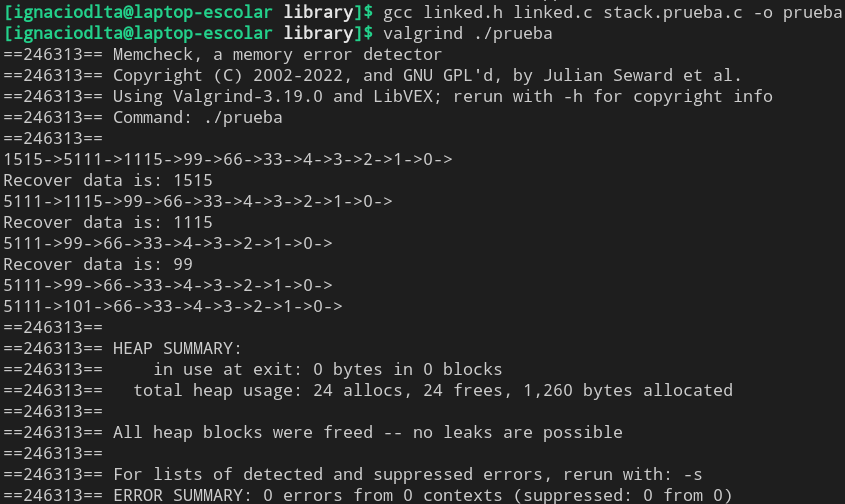
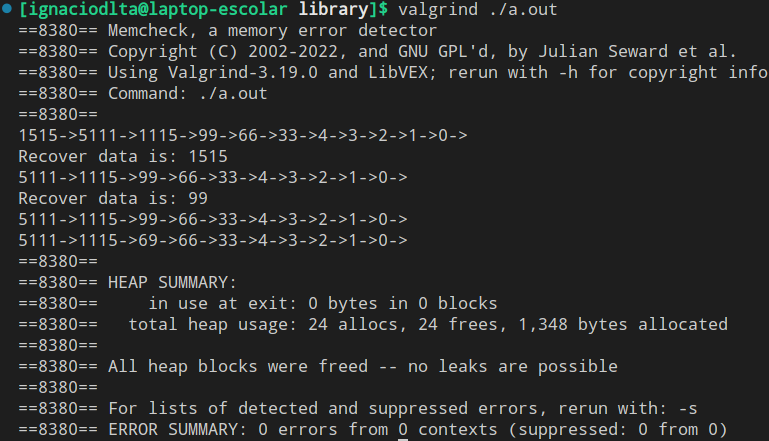
Update

Changed region(s): [[0.0, 0.0, 0.9987, 1.0], [0.9051, 0.0, 0.9987, 0.059]]

diff --git a/linked.c b/linked.c
@@ -1,43 +1,51 @@
 #include "linked.h"
 #include <stdarg.h>
 #include <stddef.h>
-#include <stdlib.h>
+#include <stdint.h>
+#include <stdio.h>
 
 #define iterate(stack)  for(node* aux = stack->lista; aux != NULL; aux = aux->next)
 Stack* newStack(){
-    Stack* stack = malloc(sizeof(Stack));
-    *stack = (Stack){.size = 0, .lista = NULL};
-    return stack;
+    Stack* created = malloc(sizeof(Stack));
+    *created = (Stack){.size = 0, .lista = NULL};
+    return created;
 }
 //Encapsula el valor mandado dentro de un nodo
-static node* wrap(void* const val){
+node* wrap(void* const val, const size_t typeSize){
     node* newNode = malloc(sizeof(node));
     *newNode = (node){
+        .typeSize = typeSize,
         .cont = val,
         .next = NULL
     };
     return newNode;
 }
+void* unwrap(node* const Node){
+    void* aux = Node->cont;
+    free(Node);
+    return aux;
+}
 //Retorna el indice en el cual se encuentra un puntero que apunta a la misma direccion de memoria del valor
-size_t search(Stack* const stack, void* const valor){
-    unsigned int index;
+size_t search(const Stack* const stack, const void* const valor){
+    unsigned int index = 0;
     iterate(stack){
         if (aux->cont == valor) return index;
         index++;
     }
-    return stack->size+1;
+    return stack->size + 1;
 }
 //A diferencia del search simple este hace una revision de bytes en lugar de direccion de memoria
-size_t searchValue(Stack* const stack, void* const valor, const size_t typeLen){
-    char* buscado = valor;
+size_t searchValue(const Stack* const stack, const void* const valor, const size_t typeLen){
+    const char* buscado = valor;
     char* actualValue;
-    unsigned char found = 0;
+    uint8_t found = 0;
     size_t index = 0;
     iterate(stack){
+        if(aux->typeSize < typeLen || aux->typeSize > typeLen)continue; //Chequeo para evitar acceso a memoria que no nos pertenece
         actualValue = aux->cont;
         found = 1;
-        for (unsigned char i = 0; i < typeLen; i++){
-            if(buscado[i] != actualValue[i]){ //Dangerous for a stack with contents of diferent types
+        for (uint8_t i = 0; i < typeLen; i++){
+            if(buscado[i] != actualValue[i]){
                found = 0;
                break; 
             }
@@ -45,91 +53,89 @@ size_t searchValue(Stack* const stack, void* const valor, const size_t typeLen){
         if(found)return index;
         index++;
     }
-    return stack->size+1;
+    return stack->size + 1;
 }
 //Retorna el indice de la lista en el que se cumpla que el valor en el indice pasado a la funcion retorne True
-size_t findByFunc(Stack* const stack, int (*func)(void*)){
+size_t findByFunc(const Stack* const stack, int (*func)(void*)){
     size_t indice = 0;
     iterate(stack){
         if(func(aux->cont))return indice;
         indice++;
     }
-    return stack->size+1;
-}
-//Cambia el contenido de cada nodo al resultado de enviar su contenido a la funcion obtenida
-void map(Stack* const stack, void* (*func)(void*)){
-    iterate(stack)aux->cont = func(aux->cont);
+    return stack->size + 1;
 }
 //Pasa cada valor en el stack a la funcion obtenida
-void forEach(Stack* const stack, void(*func)(void*)){
+void forEach(const Stack* const stack, void (*func)(void*)){
     iterate(stack)func(aux->cont);
 }
-//Encapsula el nuevo elemento en un nodo y lo añade al stack
-void push(Stack* const stack, void* const contenido){
-    node* newNode = wrap(contenido);
-    newNode->next = stack->lista;
-    stack->lista = newNode;
+void pushNode(node** const origin, node* const contenido){
+    contenido->next = (*origin);
+    *origin = contenido;
+}
+void pushStack(Stack* const stack, node* const contenido){
+    pushNode(&(stack->lista), contenido);
     stack->size++;
 }
-//Agrega los argumentosrecividos hasta encontrar un puntero a NULL
+//Agrega los nodos recibidos como argumentos hasta encontrar NULL
 void pushArguments(Stack* const stack, ...){
     va_list ap;
     va_start(ap, stack);
-    for(void* aux = va_arg(ap, void*); aux != NULL; aux = va_arg(ap, void*))push(stack, aux);
+    for(node* aux = va_arg(ap, node*); aux != NULL; aux = va_arg(ap, node*))pushStack(stack, aux);
     va_end(ap);
 }
 //Agrega los valores en el orden en que se encuentra en la lista
 //Hint: El tamaño de una lista se puede sacar con (sizeof(Lista) / sizeof(typeOfLista)) solo si se aplica donde se creo no cuando es pasada a una funcion
-void pushLista(Stack* const stack, void* const valores[], const size_t sizeOfValores){
-    if(sizeOfValores == 0)return;
-    for(size_t i = 0; i < sizeOfValores; i++)push(stack, valores[i]);
+void pushLista(Stack* const stack, node* const valores[], const size_t sizeOfList){
+    if(sizeOfList == 0)return;
+    for(size_t i = 0; i < sizeOfList; i++)pushStack(stack, valores[i]);
+}
+node* popNode(node** const origin){
+    node* aux = *origin;
+    *origin = (*origin)->next;
+    aux->next = NULL;
+    return aux;
+}
+node* popNextNode(node** const origin){
+    node* aux = (*origin)->next;
+    (*origin)->next = (*origin)->next->next;
+    aux->next = NULL;
+    return aux;
 }
 //Extra el ultimo contenido del ultimo nodo añadido al stack
 //Recordatorio: Liberar la memoria del puntero retornado
-void* popP(Stack* const stack){
+node* popStackNode(Stack* const stack){
     if(stack->lista == NULL)return NULL;
-    void* contenido = stack->lista->cont;
-    node* temp = stack->lista->next;
-    free(stack->lista);
-    stack->lista = temp;
-    stack->size--;
-    return contenido;
+    stack->size-=1;
+    return popNode(&(stack->lista));
 }
 //Extrae el contenido del nodo en el index
 //Recordatorio: Liberar la memoria del puntero retornado
-void* popPI(Stack* const stack, const size_t index){
+node* popStackNodeAtIndex(Stack* const stack, const size_t index){
     if(index > stack->size)return NULL;
-    if(index < 1)return popP(stack);
+    if(index < 1)return popStackNode(stack);
     size_t i = 1;
-    void* contenido;
     iterate(stack){
         if(i == index){
-            contenido = aux->next->cont;
-            node* temp = aux->next->next;
-            free(aux->next);
-            aux->next = temp;
-            stack->size--;
-            return contenido;
+            stack->size-=1;
+            return popNextNode(&(aux));
         }
         i++;
     }
-    stack->size--;
-    return contenido;
+    return NULL;
 }
 //Retorna el contenido del nodo en el index sin eliminarlo
 //No liberar el puntero enviado
-void* getP(Stack* stack, const size_t index){
+node* getStackNodeAtIndex(const Stack* const stack, const size_t index){
     if(index > stack->size)return NULL;
-    size_t i = 0;
-    void* contenido;
+    unsigned int i = 0;
     iterate(stack){
-        if(i == index)contenido = aux->cont;
+        if(i == index)return aux;
         i++;
     }
-    return contenido;
+    return NULL;
 }
 //Elimina todos los elementos del stack
-void clean(Stack* const stack){
+void clearStack(Stack* const stack){
     node* temp;
     for(node* aux = stack->lista;aux != NULL;aux = temp){
         temp = aux->next;
@@ -138,8 +144,8 @@ void clean(Stack* const stack){
     }
     stack->size = 0;
 }
-void destroy(Stack** const stack){
-    clean(*stack);
+void destroyStack(Stack** stack){
+    clearStack(*stack);
     free(*stack);
     *stack = NULL;
 }

diff --git a/linked.h b/linked.h
@@ -1,5 +1,5 @@
-#include <stdlib.h>
 #include <stddef.h>
+#include <stdlib.h>
 #include <stdarg.h>
 
 //Recorre la lista
@@ -23,75 +23,82 @@
     }
 */
 //Caso de uso: -Para una funcion generadora de elementos
-#define copy(T, val)    void* Copy_##val = malloc(sizeof(val));\
-                        *((T*)Copy_##val) = val;
-#define popV(T, stack, var) {                           \
-    void* aux = popP(stack);                            \
-    if(aux == NULL){                                    \
-        printf("Theres is no data left on the stack");  \
-    }else{                                              \
-        var = *((T*)aux);                               \
-        free(aux);                                      \
-    }                                                   \
+#define copy(T, val)    node* Copy_##val;{                              \
+    T* aux_Ptr = malloc(sizeof(T));                                     \
+    *aux_Ptr = val;                                                     \
+    Copy_##val = wrap(aux_Ptr, sizeof(T));                              \
+}                                                                   
+#define dynamicCopy(T, val) T* Dynamic_##val = malloc(sizeof(T));   \
+                            *Dynamic_##val = val;
+
+#define popValueIndex(T, stack, index, var) {                       \
+    node* aux = popStackNodeAtIndex(stack, index);                  \
+    if(aux != NULL){                                                \
+        var = *(T*)(aux->cont);                                     \
+        free(aux->cont);                                            \
+        free(aux);                                                  \
+    }                                                               \
 }
-#define popVI(T, stack, var, index) {                   \
-    void* aux = popPI(stack, index);                    \
-    if(aux == NULL){                                    \
-        printf("Theres is no data left on the stack");  \
-    }else{                                              \
-        var = *((T*)aux);                               \
-        free(aux);                                      \
-    }                                                   \
+
+#define getValue(T, stack, index, var) {                            \
+    node* aux = getStackNodeAtIndex(stack, index);                  \
+    if(aux != NULL)var = *(T*)(aux->cont);                         \
 }
-#define getV(T, stack, var, index) {                    \
-    void* aux = getP(stack, index);                     \
-    if(aux == NULL){                                    \
-        printf("Index Error");                          \
-    }else{                                              \
-        var = *((T*)aux);                               \
-    }                                                   \
+#define changeValue(T, stack, index, newValue, typeSiz) {           \
+    node* aux = getStackNodeAtIndex(stack, index);                  \
+    if(aux != NULL){                                                \
+        *(T*)(aux->cont) = newValue;                                \
+        aux->typeSize = typeSiz;                                    \
+    }                                                               \
 }
-#define changeVI(T, stack, newValue, index) {           \
-    T* aux = getP(stack, index);                        \
-    *aux = newValue;                                    \
+//Convierte una lista de valores a una lista de nodos validos con memoria dinamica
+#define transformList(T, originList, lenght) node* nodes_##originList[lenght];{\
+    T* aux;                                                         \
+    for(size_t i = 0; i<lenght; i++){                               \
+        aux = malloc(sizeof(T));                                    \
+        *aux = originList[i];                                       \
+        nodes_##originList[i] = wrap(aux, sizeof(T));               \
+    }                                                               \
 }
-#define transformList(T, originList, lenght) void* void_##originList[lenght];\
-{                                                       \
-    for(size_t i = 0; i<lenght; i++){                   \
-        void_##originList[i] = malloc(sizeof(T));       \
-        *(T*)void_##originList[i] = originList[i];      \
-    }                                                   \
+#define removeStack(T, stack, index){                               \
+    node *aux = popStackNodeAtIndex(stack,index);                   \
+    free(aux->cont);                                                \
+    free(aux);                                                      \
 }
 
 typedef struct node{
+    size_t          typeSize;
     void*           cont;
     struct node*    next;
 }node;
 typedef struct{
-    size_t  size;
+    size_t size;
     node*   lista;
 }Stack;
 
 Stack* newStack();
-static node* wrap(void* const);
+node* wrap(void* const, const size_t);
+void* unwrap(node* const);
 //Busquedas
-size_t search(Stack* const, void* const);
-size_t searchValue(Stack* const, void* const, const size_t);
+size_t search(const Stack* const, const void* const);
+size_t searchValue(const Stack* const, const void* const, const size_t);
 
 //More complex
-size_t findByFunc(Stack* const stack, int (*func)(void*));
-void map(Stack* const stack, void* (*func)(void*));
-void forEach(Stack* const stack, void(*func)(void*));
+size_t findByFunc(const Stack* const, int (*)(void*));
+void forEach(const Stack* const , void(*)(void*));
 
 //Adition functions based on pointers to elements
-void push(Stack* const, void* const);
+void pushNode(node** const, node* const);
+void pushStack(Stack* const, node* const);
 void pushArguments(Stack* const, ...);
-void pushLista(Stack* const, void* const[], const size_t);
+void pushLista(Stack* const, node* const[], const size_t);
 
-//Substraction  functions returning pointers
-void* popP(Stack* const);
-void* popPI(Stack* const, const size_t);
-void* getP(Stack*, const size_t);
+//Substraction  functions returning node pointers
+node* popNode(node** const);
+node* popNextNode(node** const);
+node* popStackNode(Stack* const);
+node* popStackNodeAtIndex(Stack* const, const size_t);
+node* getStackNodeAtIndex(const Stack* const, const size_t);
 
-void clean(Stack* const stack);
-void destroy(Stack** const stack);
+void clearStack(Stack* const);
+void destroyStack(Stack**);

diff --git a/stack.prueba.c b/stack.prueba.c
@@ -11,10 +11,10 @@ static inline void printStack(Stack* const stack){
 }
 int main(){ 
     Stack* data = newStack();
-    int getVar;
+    int getVar = 0;
     for(int i = 0; i<5; i++){
         copy(int, i)
-        push(data, Copy_i);
+        pushStack(data, Copy_i);
     }
     {
         int a=33, b=66, c=99;
@@ -27,25 +27,21 @@ int main(){
         int list[] = {1115, 5111, 1515};
         size_t len = sizeof(list) / sizeof(int);
         transformList(int, list, len)
-        pushLista(data, void_list, len);
+        pushLista(data, nodes_list, len);
     }
     printStack(data);
-    
-    popV(int,data, getVar)
+
+    popValueIndex(int, data, 0, getVar)
     printf("Recover data is: %i\n", getVar);
     printStack(data);
 
-    popVI(int,data, getVar,1)
-    printf("Recover data is: %i\n", getVar);
-    printStack(data);
-    
-    getV(int, data, getVar, 1)
+    getValue(int, data, 2, getVar)
     printf("Recover data is: %i\n", getVar);
     printStack(data);
 
-    changeVI(int, data, 101, 1)//Cambia el 99 por 101
+    changeValue(int, data, 2, 69, sizeof(int))//Cambia el 99 por 101
     printStack(data);
 
-    destroy(&data);
+    destroyStack(&data); //Reinicio de la lista
     return 0;
 }

diff --git a/README.md b/README.md
@@ -1,2 +1,5 @@
 # CStacks
 My approach of the stack data structure to be more "user friendly" in the C programing language
+
+Comando para compilar junto a otro archivo: gcc "tu_archivo.c" linked.o -o "Nombre_del_ejecutable"
+Comando para recompilar si modificas la libreria gcc -c linked.c
